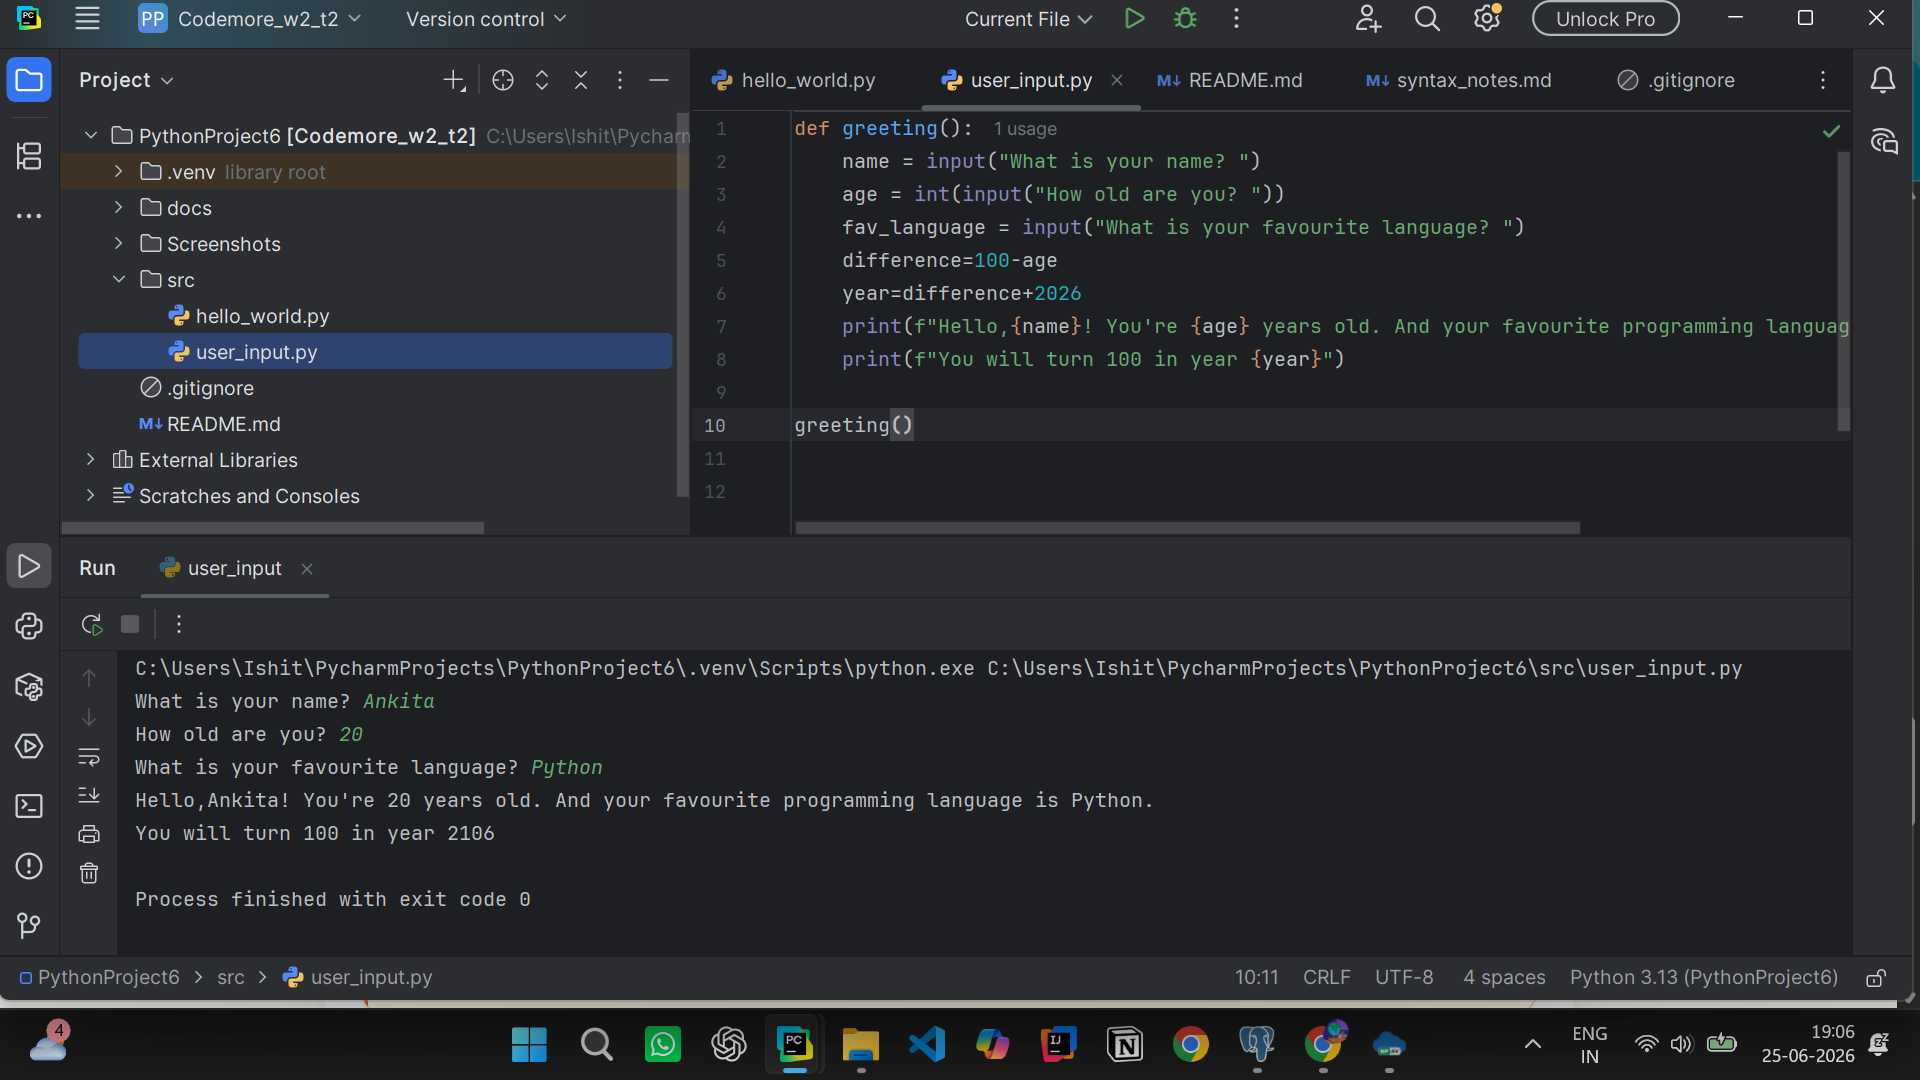
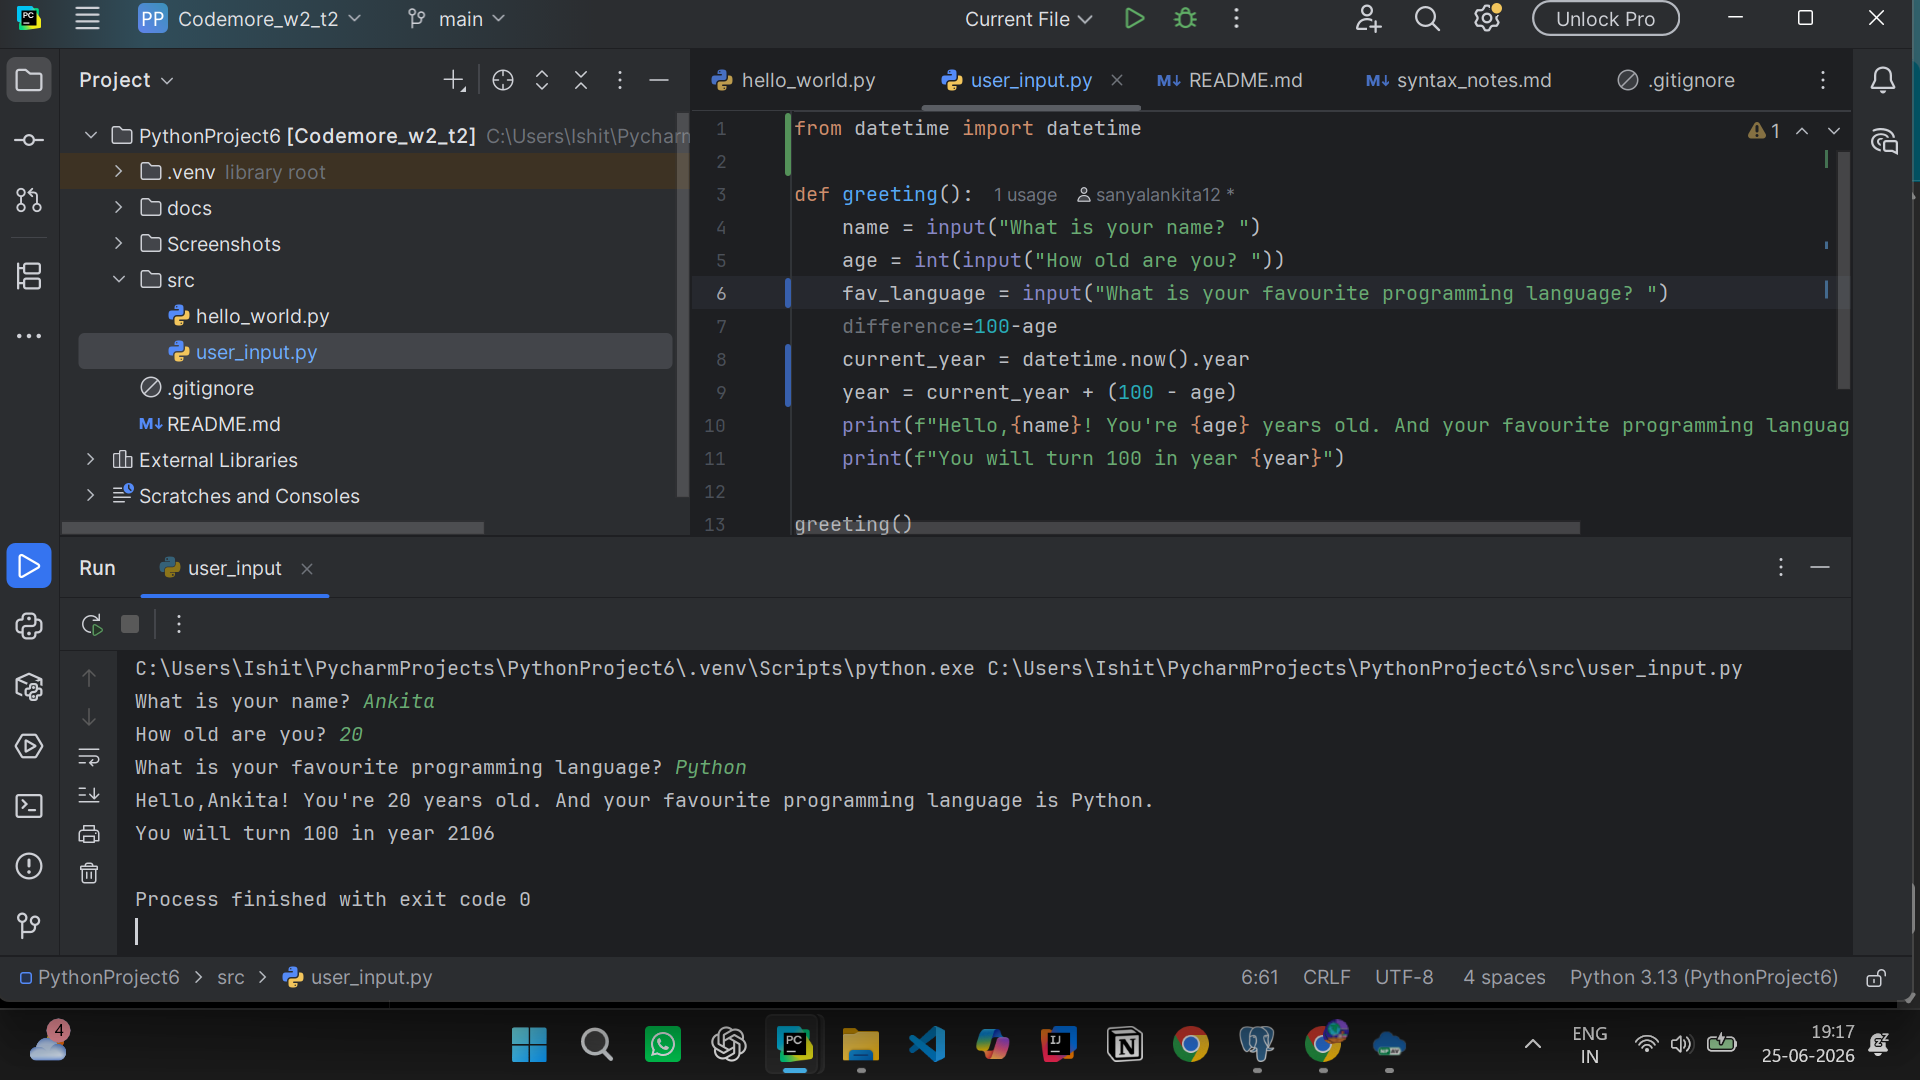
Updating the user input file and screenshots

diff --git a/src/user_input.py b/src/user_input.py
@@ -1,9 +1,12 @@
+from datetime import datetime
+
 def greeting():
     name = input("What is your name? ")
     age = int(input("How old are you? "))
-    fav_language = input("What is your favourite language? ")
+    fav_language = input("What is your favourite programming language? ")
     difference=100-age
-    year=difference+2026
+    current_year = datetime.now().year
+    year = current_year + (100 - age)
     print(f"Hello,{name}! You're {age} years old. And your favourite programming language is {fav_language}.")
     print(f"You will turn 100 in year {year}")
 